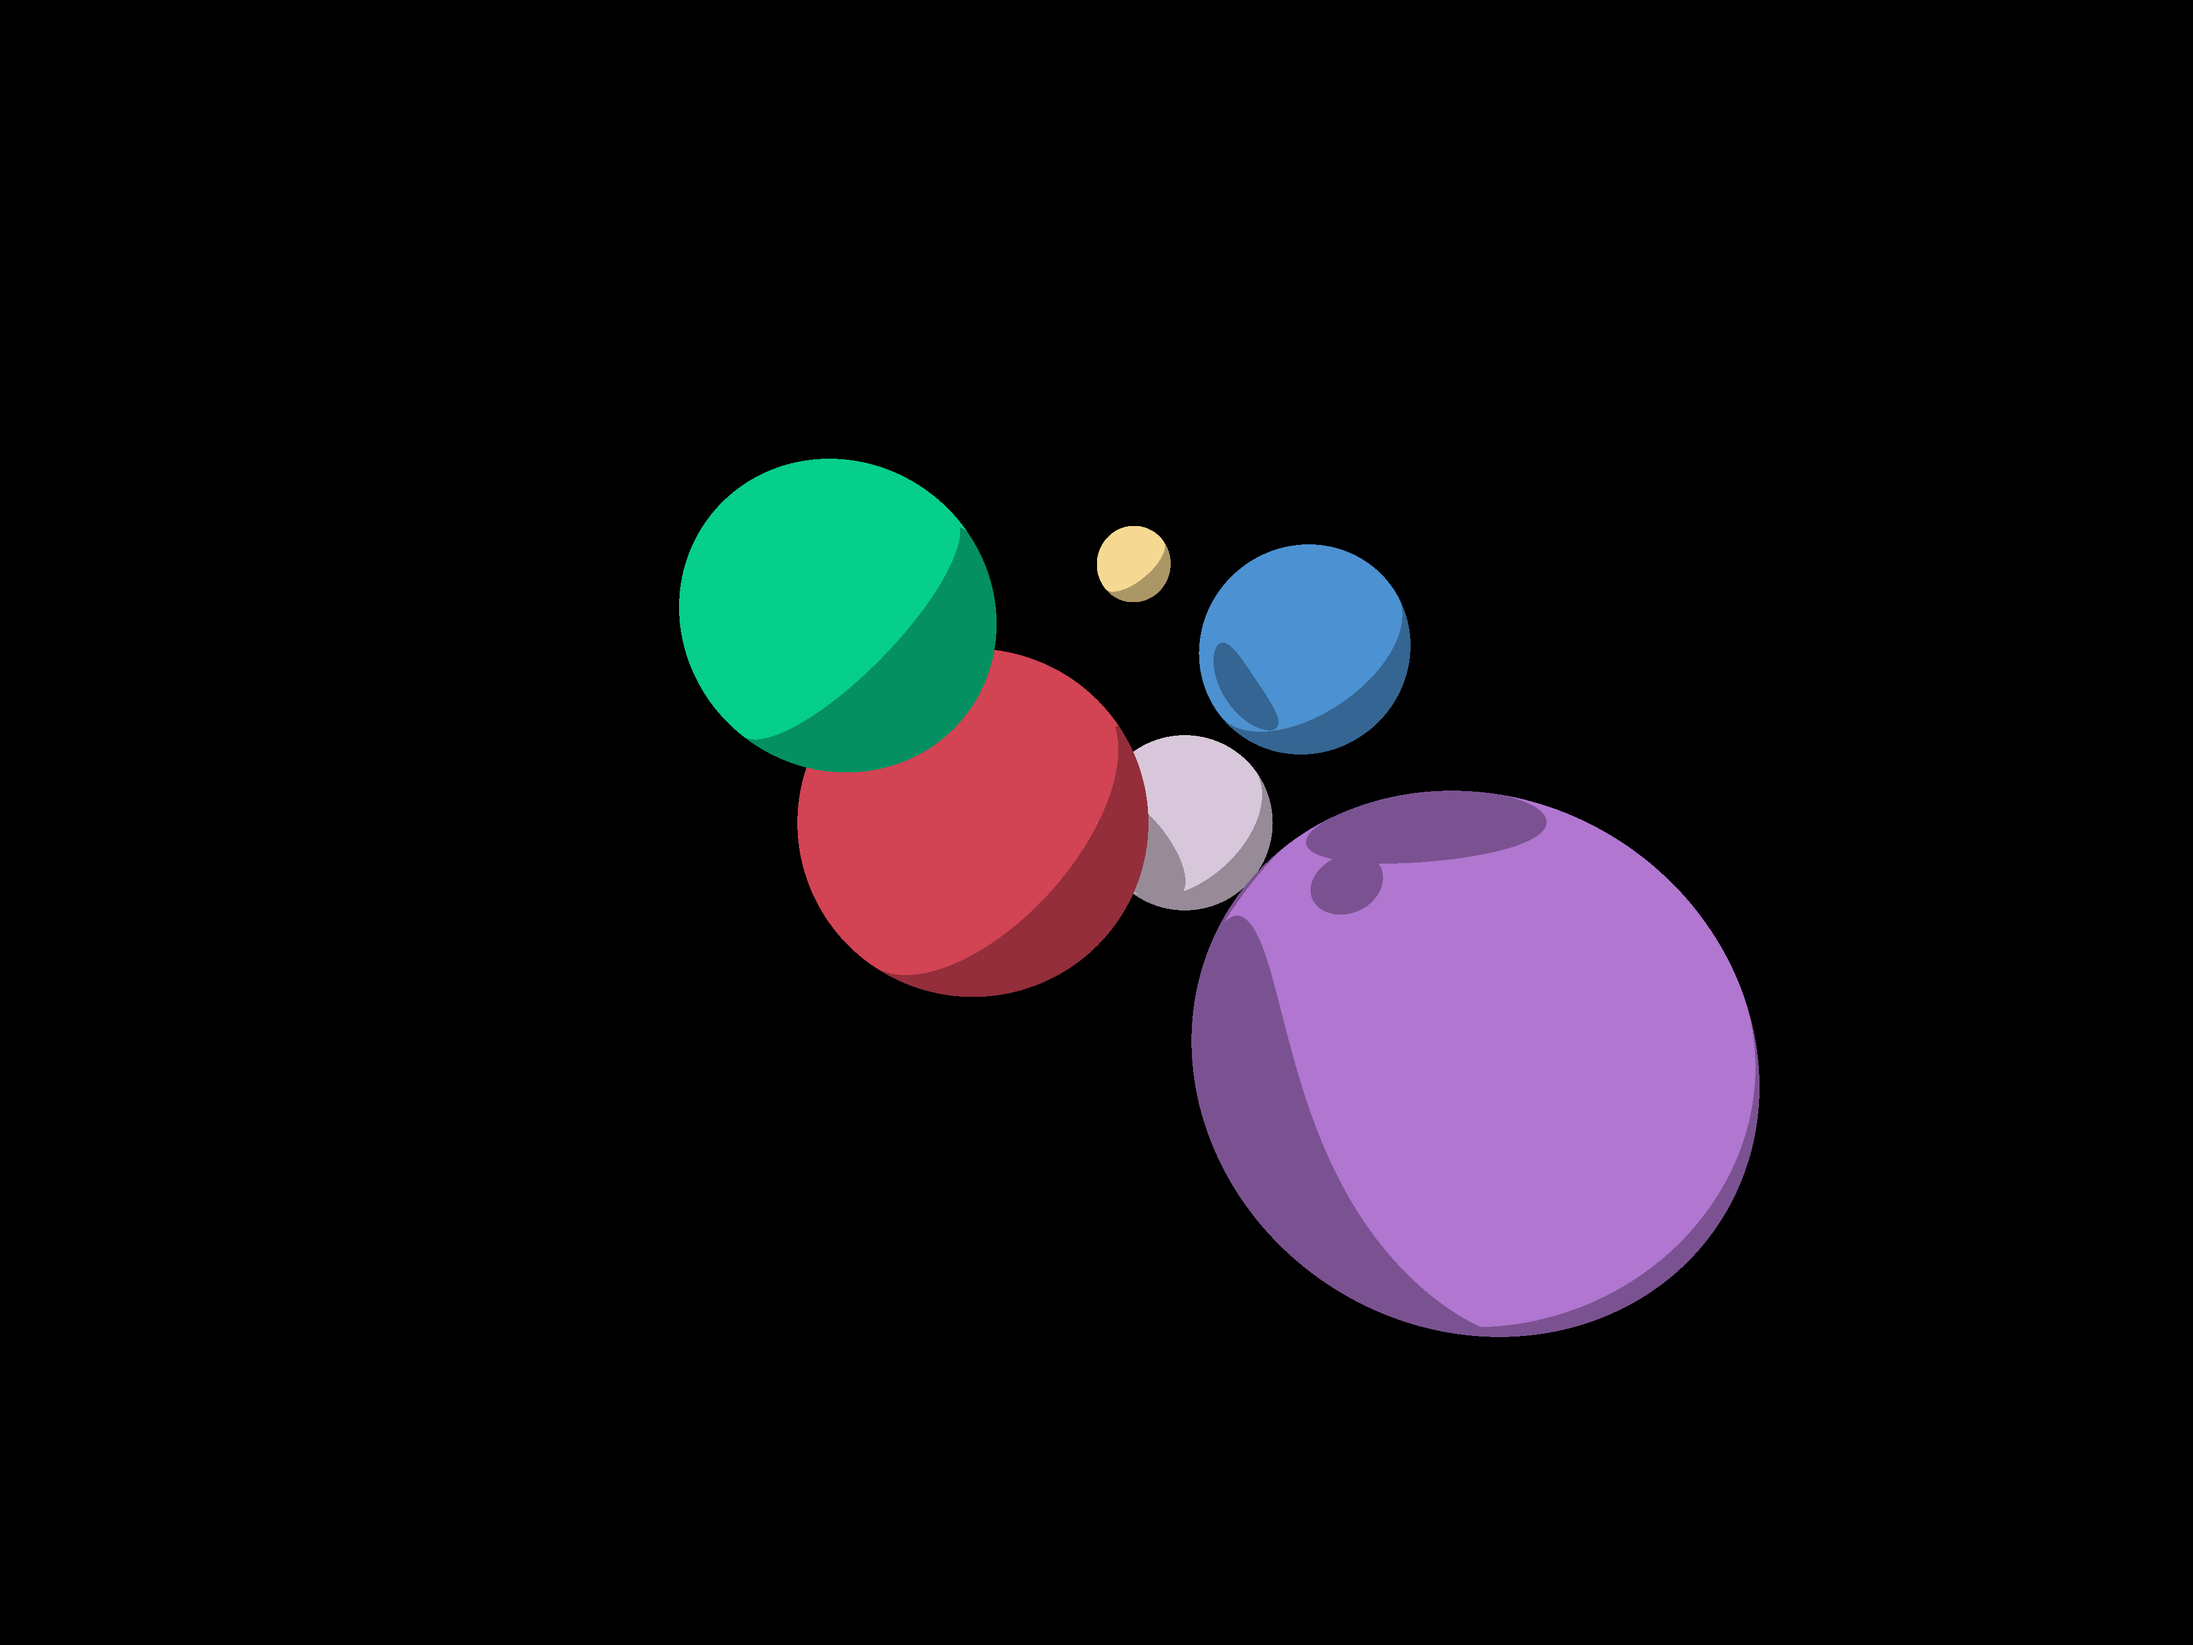
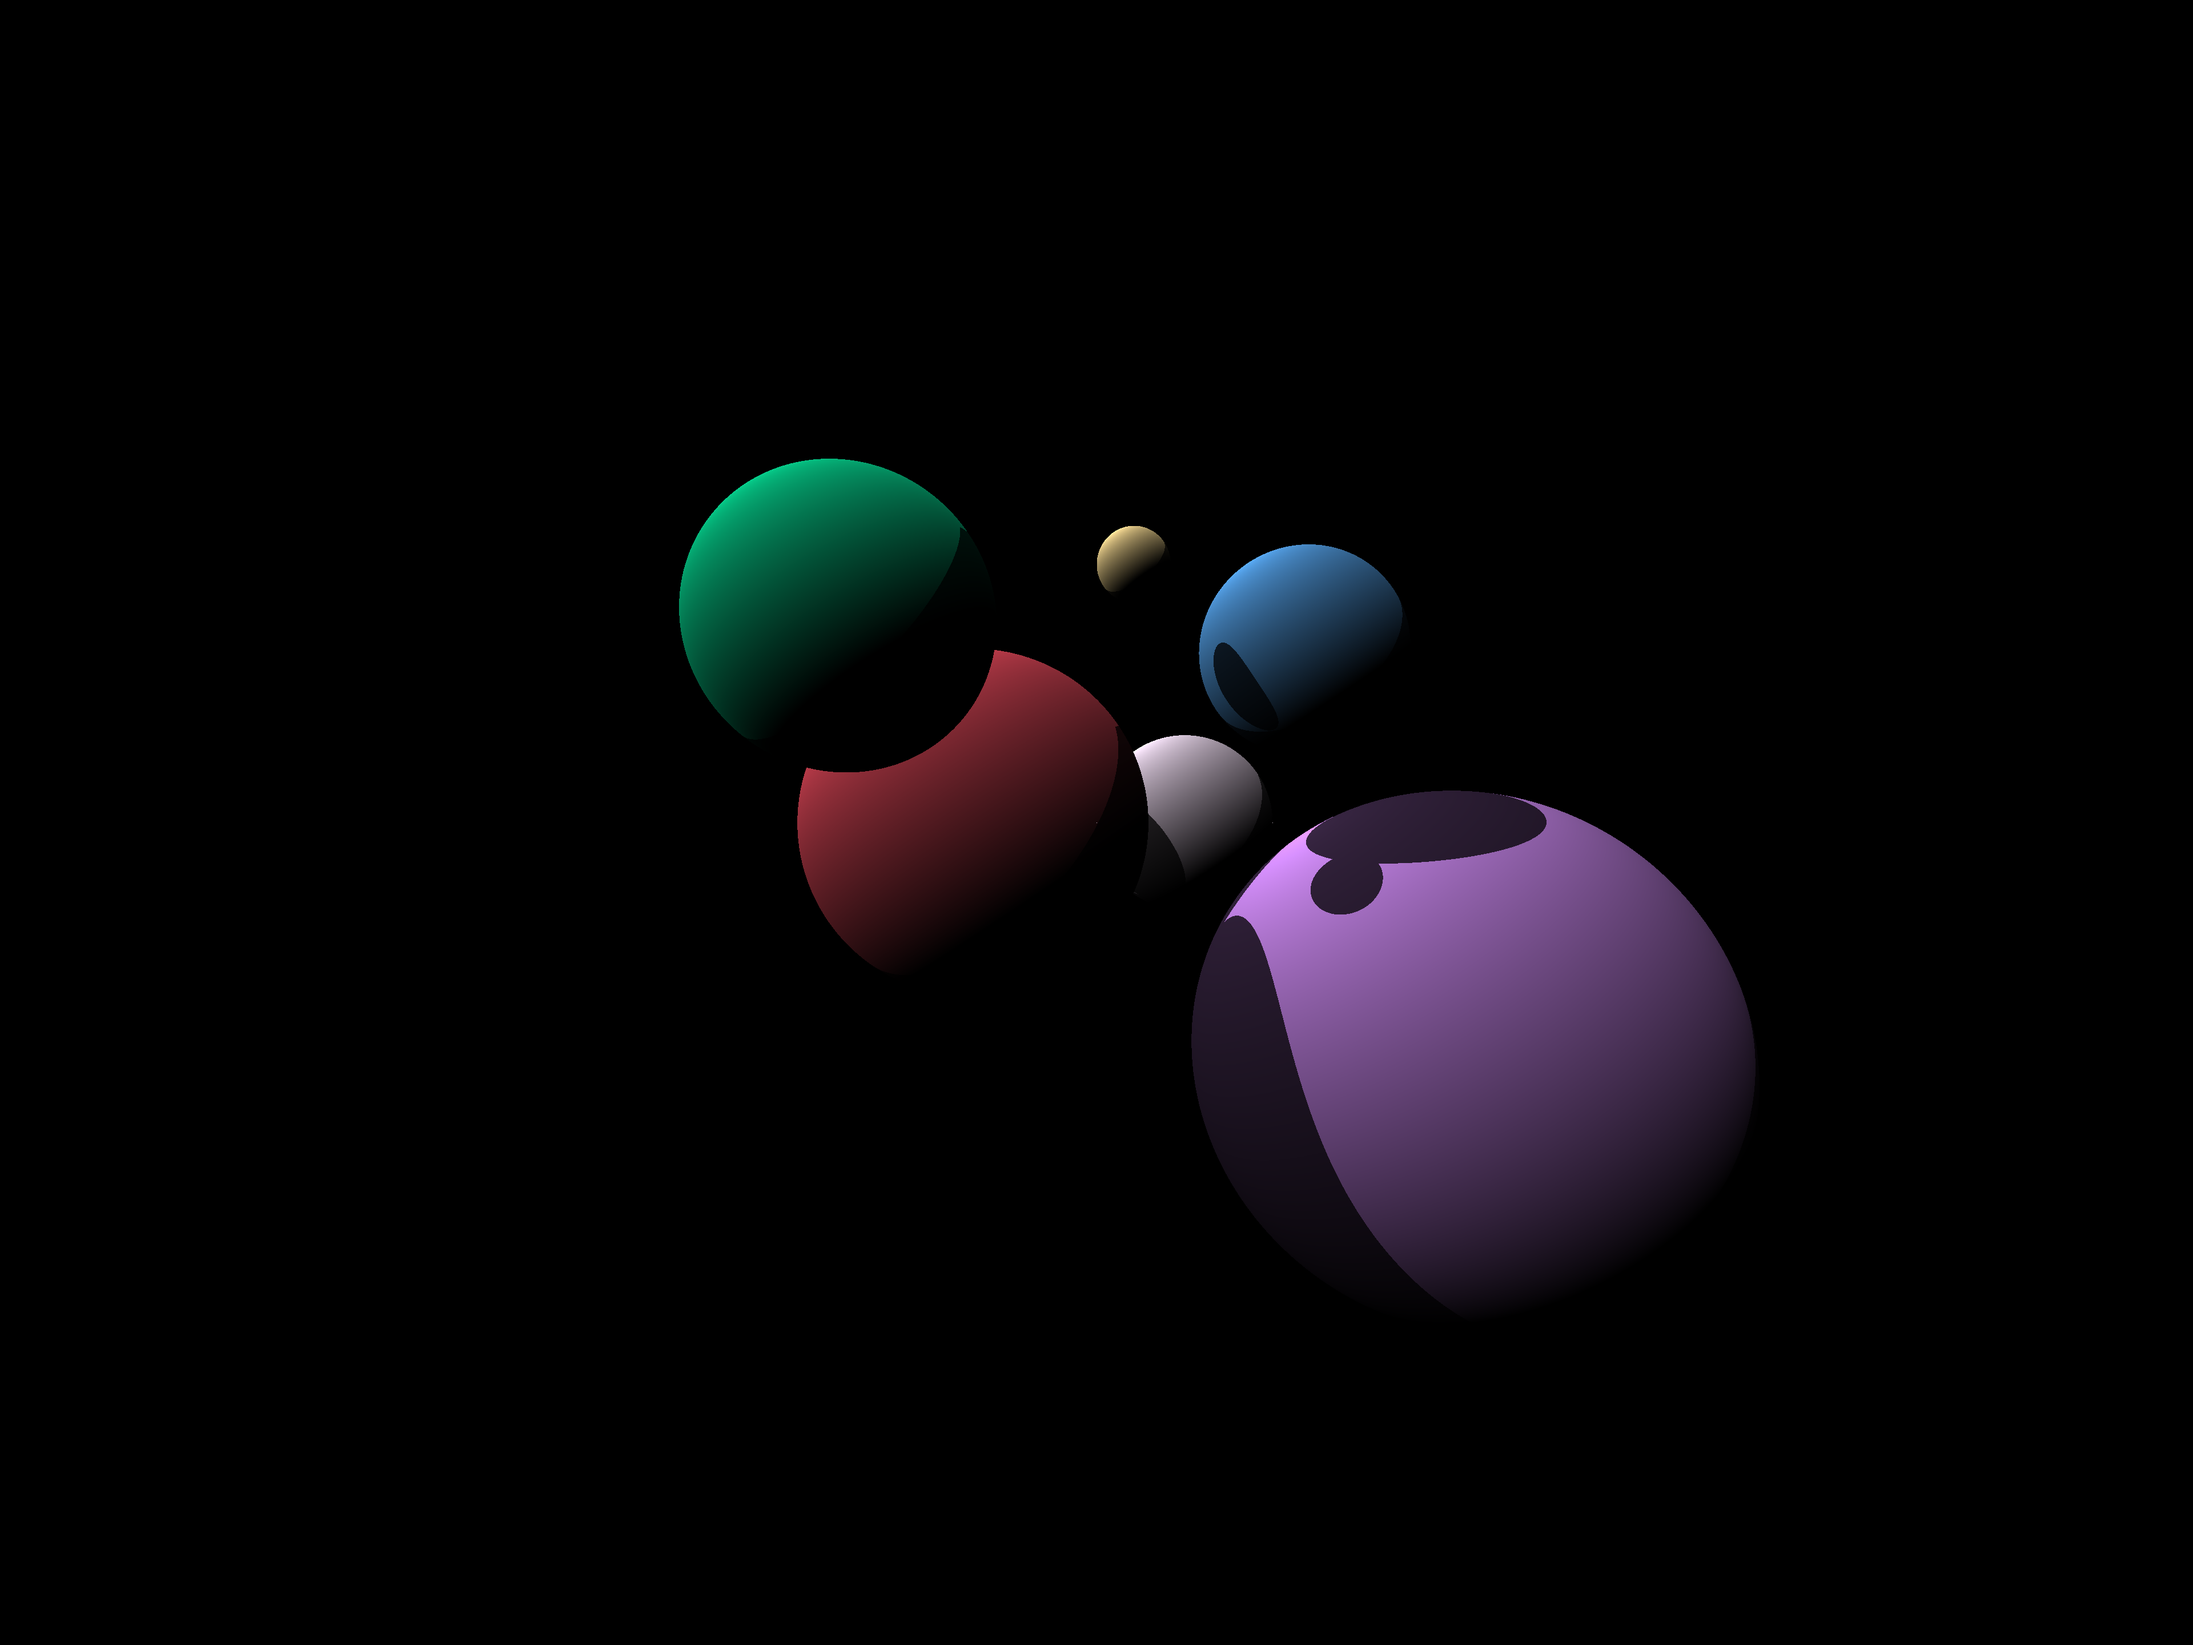
new

Changed region(s): [[0.3125, 0.2812, 0.8125, 0.8125], [0.5, 0.3125, 0.5312, 0.375]]

diff --git a/src/mathFunctions.java b/src/mathFunctions.java
@@ -13,9 +13,10 @@ public class mathFunctions {
             for(int j = -w/2;j<w/2;j++){
                 t++;
                 ra = new ray(start, new vector(35, (i/((double)h/2))*30, (j/((double)w/2))*40));
-                Color cur = Color.black;
+                Color cur = Color.darkGray;
                 double min = Integer.MAX_VALUE;
                 double[] m = {0, 0, 0, 0};
+                sphere mi = new sphere(new point(0, 0, 0), 4, Color.red);
                 for(sphere g : a.g){
                     double[] q =  mathFunctions.intersectionRay(ra, g);
                     if(q[0] >= 0) {
@@ -23,25 +24,51 @@ public class mathFunctions {
                             min = q[0];
                             cur = g.color;
                             m = q;
+                            mi = g;
                         }
                     }
                 }
+//                boolean shade = false;
                 if(m.length > 1){
                     ra = new ray(new point(m[1], m[2], m[3]), new vector(lx, ly, lz));
-
                     for(sphere g : a.g){
                         double q =  mathFunctions.intersectionRay(ra, g)[0];
-                        if(q >= 0){
+                        if(q > 0){
                             cur = cur.darker();
-//                            cur = Color.black;
+                            cur = manipulateColor(cur, 0.35f);
+//                            shade = true;
                             break;
                         }
                     }
+//                    if(!shade){
+                        ray normal = new ray(new point(m[1], m[2], m[3]),
+                            new vector(mi.p.x - m[1], mi.p.y - m[2], mi.p.z - m[3]));
+                        double angle = angleRay(normal, ra);
+                        cur = manipulateColor(cur, (float)(1 - (angle/90))+0.35f);
+//                    }
                 }
                 ren[i + (h/2)][j + (w/2)] = cur;
             }
         }
         return ren;
+    }
+    public static double angleRay(ray a, ray b){
+        vector vec1 = a.vec;
+        vector vec2 = b.vec;
+        double top = vec1.x*vec2.x + vec1.y*vec2.y + vec1.z*vec2.z;
+        double bottom = vec1.len * vec2.len;
+        double rad = Math.acos(top/bottom);
+        double ans = Math.toDegrees(rad);
+        return 180 - ans;
+    }
+    public static Color manipulateColor(Color a, float factor) {
+        int r = Math.round(a.getRed() * factor);
+        int g = Math.round(a.getGreen() * factor);
+        int b = Math.round(a.getBlue() * factor);
+        return new Color(
+            Math.max(Math.min(r,255), 0),
+            Math.max(Math.min(g,255), 0),
+            Math.max(Math.min(b,255), 0));
     }
     public static double[] intersectionRay(ray ra, sphere s){
         vector rayVec = ra.vec;
@@ -77,9 +104,9 @@ public class mathFunctions {
             double old = Math.sqrt(a);
             double len = Math.min(quad1, quad2) * old;
             double prop = len/old;
-            double newX = xv * prop + ra.p.x+0.000001;
-            double newY = yv * prop + ra.p.y+0.000001;
-            double newZ = zv * prop + ra.p.z+0.000001;
+            double newX = xv * prop + ra.p.x+0.0000001;
+            double newY = yv * prop + ra.p.y+0.0000001;
+            double newZ = zv * prop + ra.p.z+0.0000001;
 
             return new double[]{len, newX, newY, newZ};
         }

diff --git a/src/Main.java b/src/Main.java
@@ -1,31 +1,12 @@
 import java.awt.*;
 
 public class Main {
-    public static void main(String[] args) throws InterruptedException {
-        Color p1c = new Color(210, 67, 83);
-        Color p2c = new Color(6, 206, 139);
-        Color p3c = new Color(216, 199, 218);
-        Color p4c = new Color(76, 145, 209);
-        Color p5c = new Color(245, 217, 146);
-        Color p6c = new Color(176, 118, 208);
-        sphere p = new sphere(new point(200, 0, -35), 50, p1c);
-        sphere p2 = new sphere(new point(110, -40, -50), 30,  p2c);
-        sphere p3 = new sphere(new point(250, 0, 30), 30,  p3c);
-        sphere p4 = new sphere(new point(200, -50, 60), 30,  p4c);
-        sphere p5 = new sphere(new point(180, -70, 10), 10,  p5c);
-        sphere p6 = new sphere(new point(220, 70, 110), 80,  p6c);
-        render r;
-        point s = new point(-80, 0, 0);
-        scene a = new scene(s, 3840, 2880); //4k
-//        scene a = new scene(s, 400, 300);
-        a.addLight(new light(new point(0, -30, -20)));
-        a.addSphere(p);
-        a.addSphere(p2);
-        a.addSphere(p3);
-        a.addSphere(p4);
-        a.addSphere(p5);
-        a.addSphere(p6);
-        r = new render(a);
+    public static void main(String[] args){
+        scene a = scenes.scene1();
+        render r = new render(a);
+        long start = System.nanoTime();
         r.show();
+        long end = System.nanoTime();
+        System.out.println((end-start)/(double)1000000000 + " seconds with " + a.g.size() + " solids and " + 1 + " light sources");
     }
 }

diff --git a/src/scenes.java b/src/scenes.java
@@ -1,0 +1,37 @@
+import java.awt.*;
+
+public class scenes {
+    public static scene scene1(){
+        Color p1c = new Color(210, 67, 83);
+        Color p2c = new Color(6, 206, 139);
+        Color p3c = new Color(216, 199, 218);
+        Color p4c = new Color(76, 145, 209);
+        Color p5c = new Color(245, 217, 146);
+        Color p6c = new Color(176, 118, 208);
+        sphere p = new sphere(new point(200, 0, -35), 50, p1c);
+        sphere p2 = new sphere(new point(110, -40, -50), 30,  p2c);
+        sphere p3 = new sphere(new point(250, 0, 30), 30,  p3c);
+        sphere p4 = new sphere(new point(200, -50, 60), 30,  p4c);
+        sphere p5 = new sphere(new point(180, -70, 10), 10,  p5c);
+        sphere p6 = new sphere(new point(220, 70, 110), 80,  p6c);
+        point s = new point(-80, 0, 0);
+        scene a = new scene(s, 3840, 2880); //4k
+        a.addLight(new light(new point(0, -30, -20)));
+        a.addSphere(p);
+        a.addSphere(p2);
+        a.addSphere(p3);
+        a.addSphere(p4);
+        a.addSphere(p5);
+        a.addSphere(p6);
+        return a;
+    }
+    public static scene scene2(){
+        Color p1c = new Color(210, 67, 83);
+        sphere p = new sphere(new point(200, 0, -35), 50, p1c);
+        point s = new point(-80, 0, 0);
+        scene a = new scene(s, 3840, 2880); //4k
+        a.addLight(new light(new point(0, -30, -20)));
+        a.addSphere(p);
+        return a;
+    }
+}

diff --git a/src/testing.java b/src/testing.java
@@ -1,6 +1,8 @@
 public class testing {
     public static void main(String[] args) {
-
+        ray a = new ray(new point(0, 0,0 ), new vector(1, 3, 0));
+        ray b = new ray(new point(1, 3,0 ), new vector(2, 1, 0));
+        System.out.println(mathFunctions.angleRay(a, b));
 
     }
 }

diff --git a/src/vector.java b/src/vector.java
@@ -1,8 +1,10 @@
 public class vector {
     double x, y, z;
+    double len;
     public vector(double x,double y, double z){
         this.x = x;
         this.y = y;
         this.z = z;
+        len = Math.sqrt(x*x + y*y + z*z);
     }
 }
